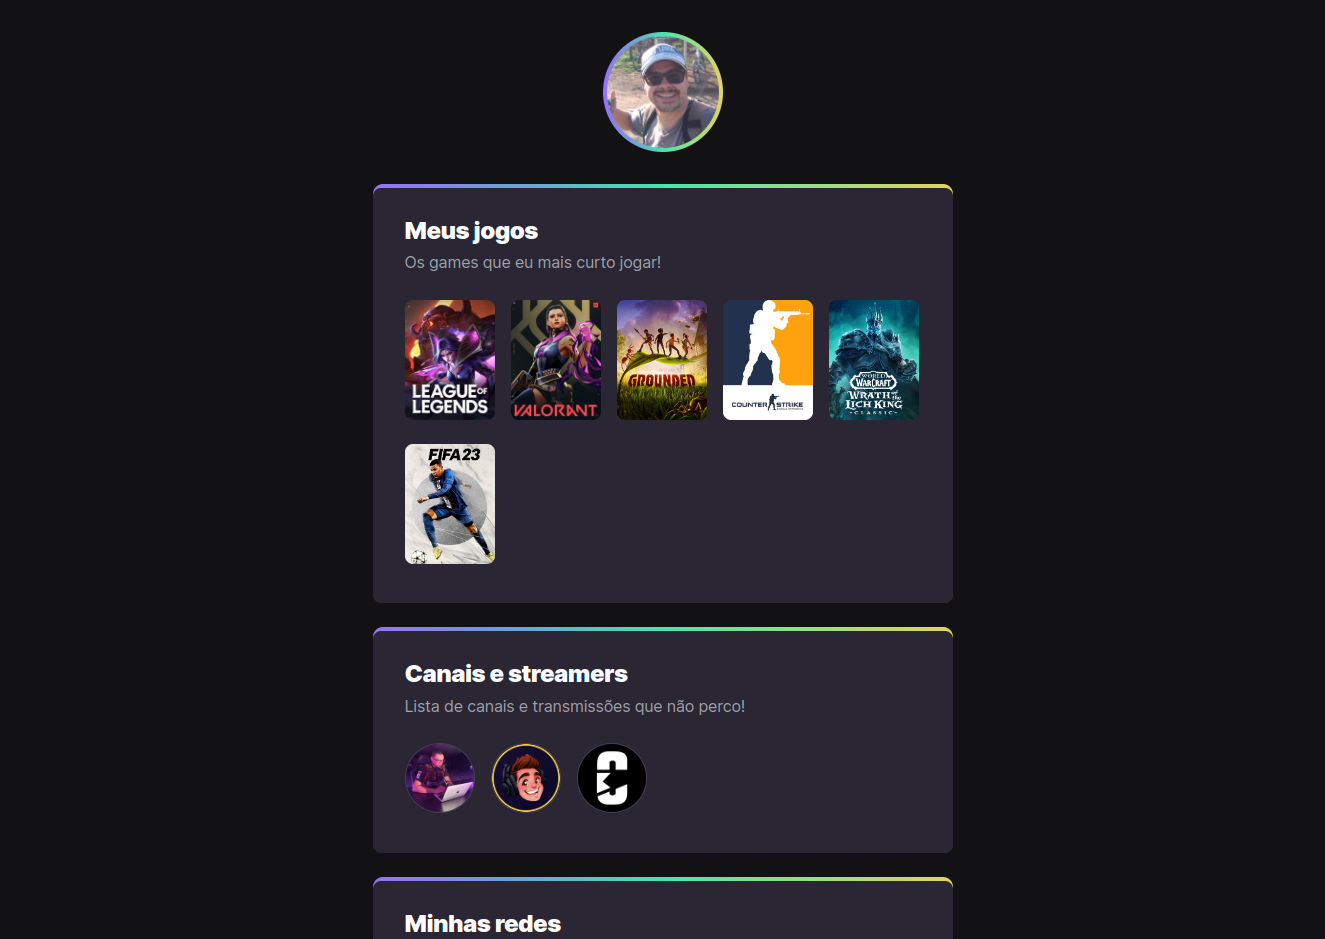
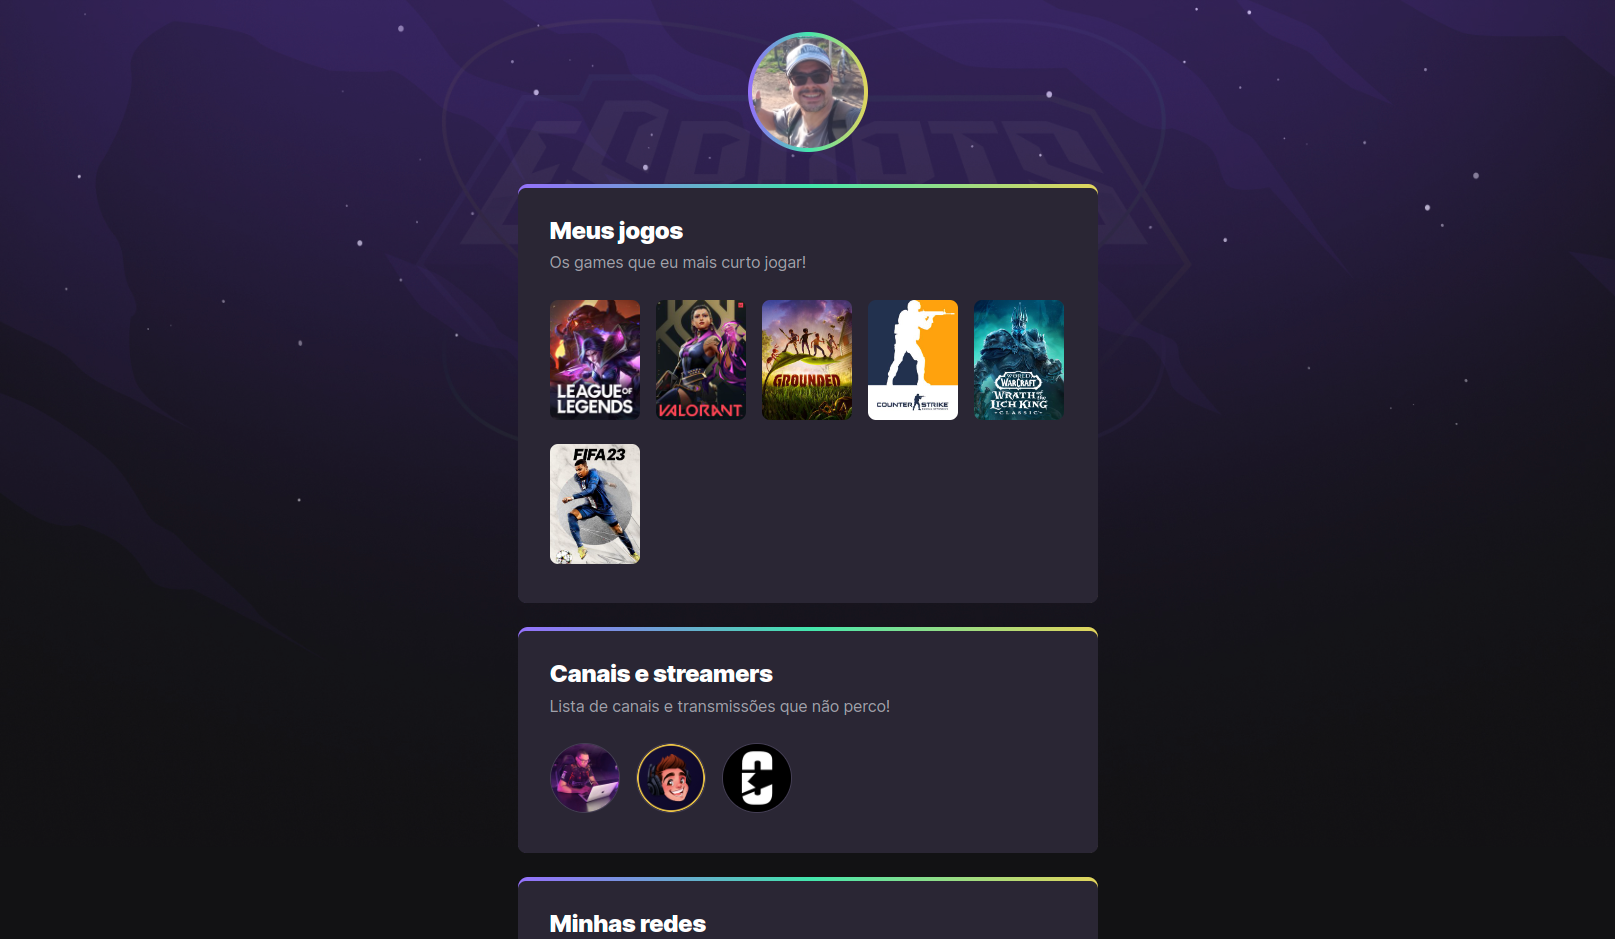
edit image preview

diff --git a/assets/css/styles.css b/assets/css/styles.css
@@ -9,7 +9,7 @@ ul {
 }
 
 body {
-    background-image: url(./assets/bg.jpg);
+    background-image: url(../image/bg.jpg);
     background-position: top center;
     background-size: 100% auto;
     background-repeat: no-repeat;
